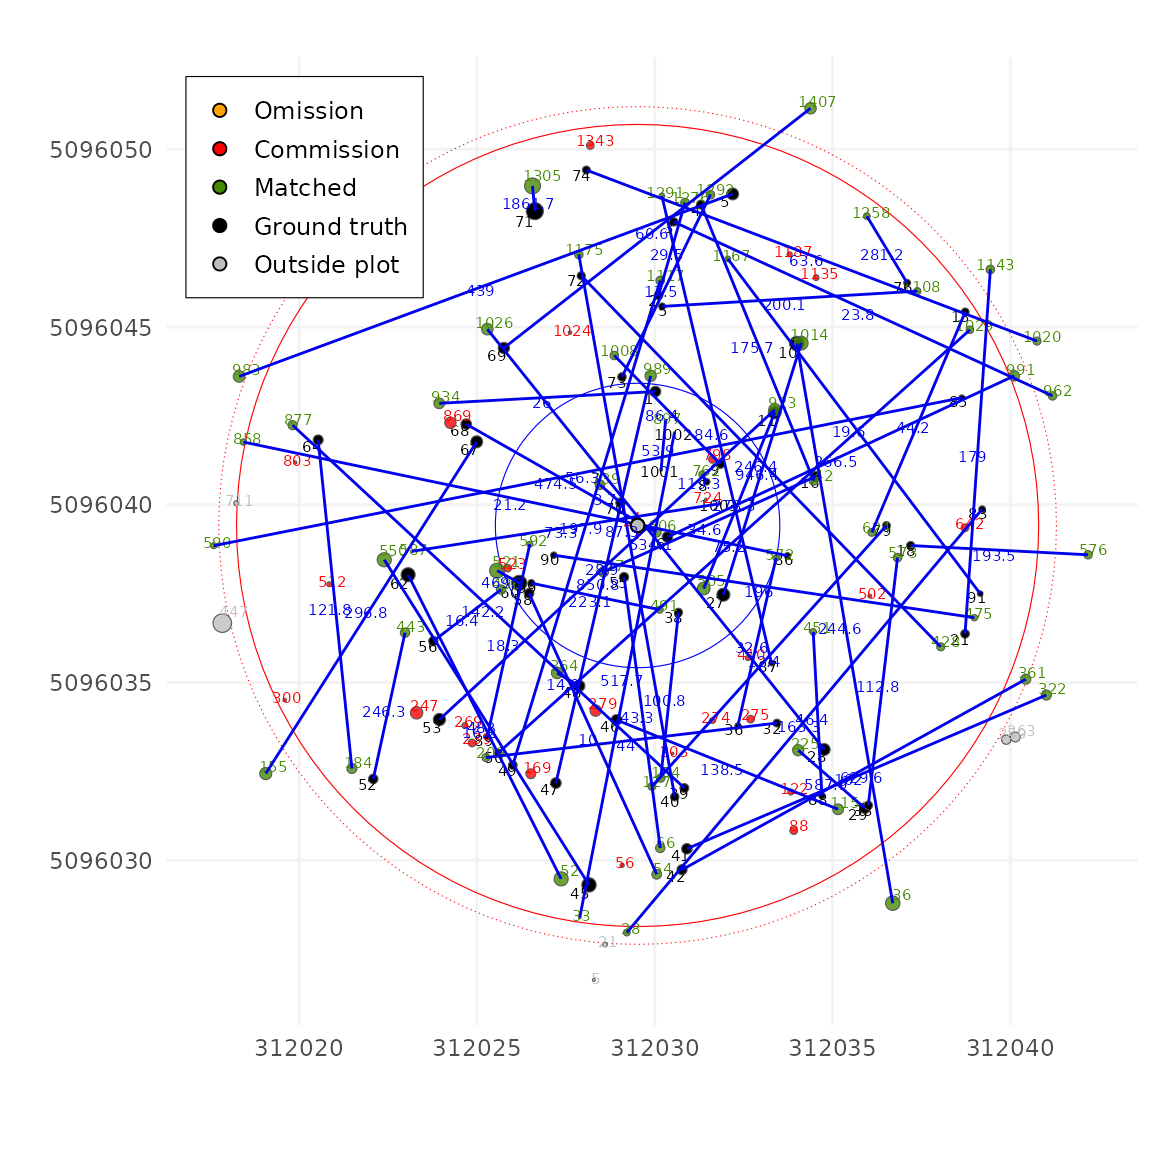
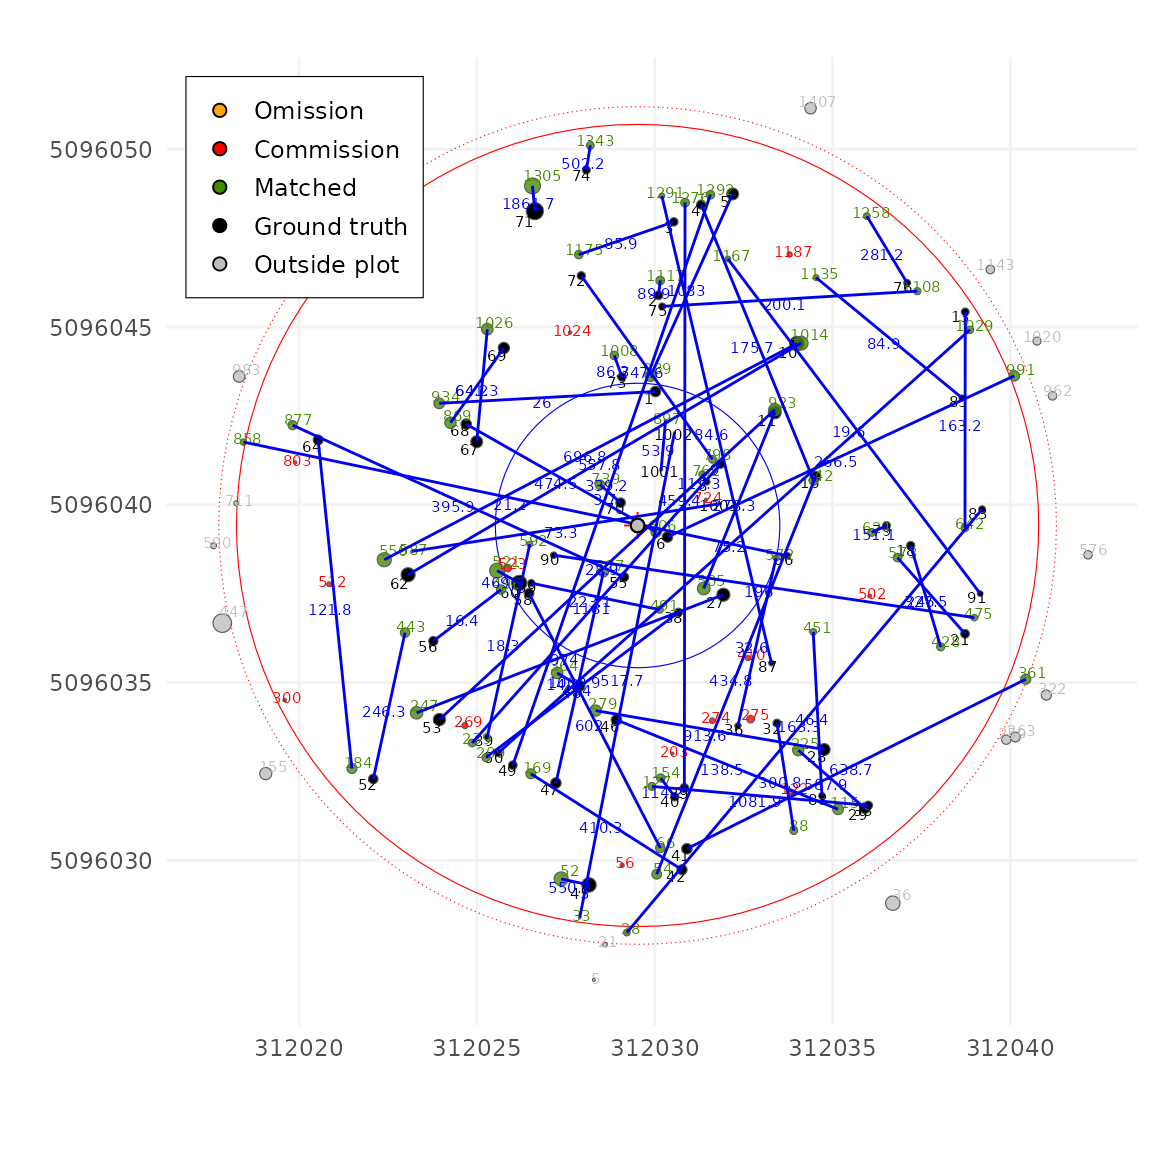
Deploying to gh-pages from @ r-lidar/TreeMatching@3ad89ef8304e746a08a903d27fd5da06bc7cd405 🚀

diff --git a/reference/match_trees.html b/reference/match_trees.html
@@ -119,7 +119,7 @@ The result is returned as an enriched `TreeMapMatching` object, ready for furthe
 <span class="r-plt img"><img src="match_trees-1.png" alt="" width="700" height="433"></span>
 <span class="r-in"><span></span></span>
 <span class="r-in"><span><span class="va">treemap</span> <span class="op">=</span> <span class="fu">match_trees</span><span class="op">(</span><span class="va">treemap</span>, method <span class="op">=</span> <span class="va">lsap_matching</span>, dxymax <span class="op">=</span> <span class="fl">2</span>, dzmax <span class="op">=</span> <span class="fl">30</span><span class="op">)</span></span></span>
-<span class="r-out co"><span class="r-pr">#&gt;</span> unmatch_cost = 1.53 </span>
+<span class="r-out co"><span class="r-pr">#&gt;</span> unmatch_cost = 1.49 </span>
 <span class="r-in"><span><span class="fu"><a href="https://rdrr.io/r/graphics/plot.default.html" class="external-link">plot</a></span><span class="op">(</span><span class="va">treemap</span>, scale <span class="op">=</span> <span class="fl">2</span><span class="op">)</span></span></span>
 <span class="r-plt img"><img src="match_trees-2.png" alt="" width="700" height="433"></span>
 <span class="r-in"><span><span class="fu"><a href="https://rdrr.io/r/graphics/plot.default.html" class="external-link">plot</a></span><span class="op">(</span><span class="va">treemap</span>, rgl <span class="op">=</span> <span class="cn">TRUE</span><span class="op">)</span></span></span>

diff --git a/articles/Tutorial.html b/articles/Tutorial.html
@@ -286,7 +286,7 @@ estimate a reasonable default.
 </div>
 <div class="sourceCode" id="cb10"><pre class="downlit sourceCode r">
 <code class="sourceCode R"><span><span class="va">tm</span> <span class="op">&lt;-</span> <span class="fu"><a href="../reference/match_trees.html">match_trees</a></span><span class="op">(</span><span class="va">tm</span>, dxymax <span class="op">=</span> <span class="fl">2</span>, dzmax <span class="op">=</span> <span class="fl">30</span>, zrel <span class="op">=</span> <span class="fl">40</span><span class="op">)</span></span>
-<span><span class="co">#&gt; unmatch_cost = 1.53</span></span>
+<span><span class="co">#&gt; unmatch_cost = 1.49</span></span>
 <span><span class="fu"><a href="https://rdrr.io/r/graphics/plot.default.html" class="external-link">plot</a></span><span class="op">(</span><span class="va">tm</span>, scale <span class="op">=</span> <span class="fl">2</span>, gg <span class="op">=</span> <span class="cn">TRUE</span><span class="op">)</span></span></code></pre></div>
 <p><img src="Tutorial_files/figure-html/unnamed-chunk-11-1.png" width="576"></p>
 </div>
